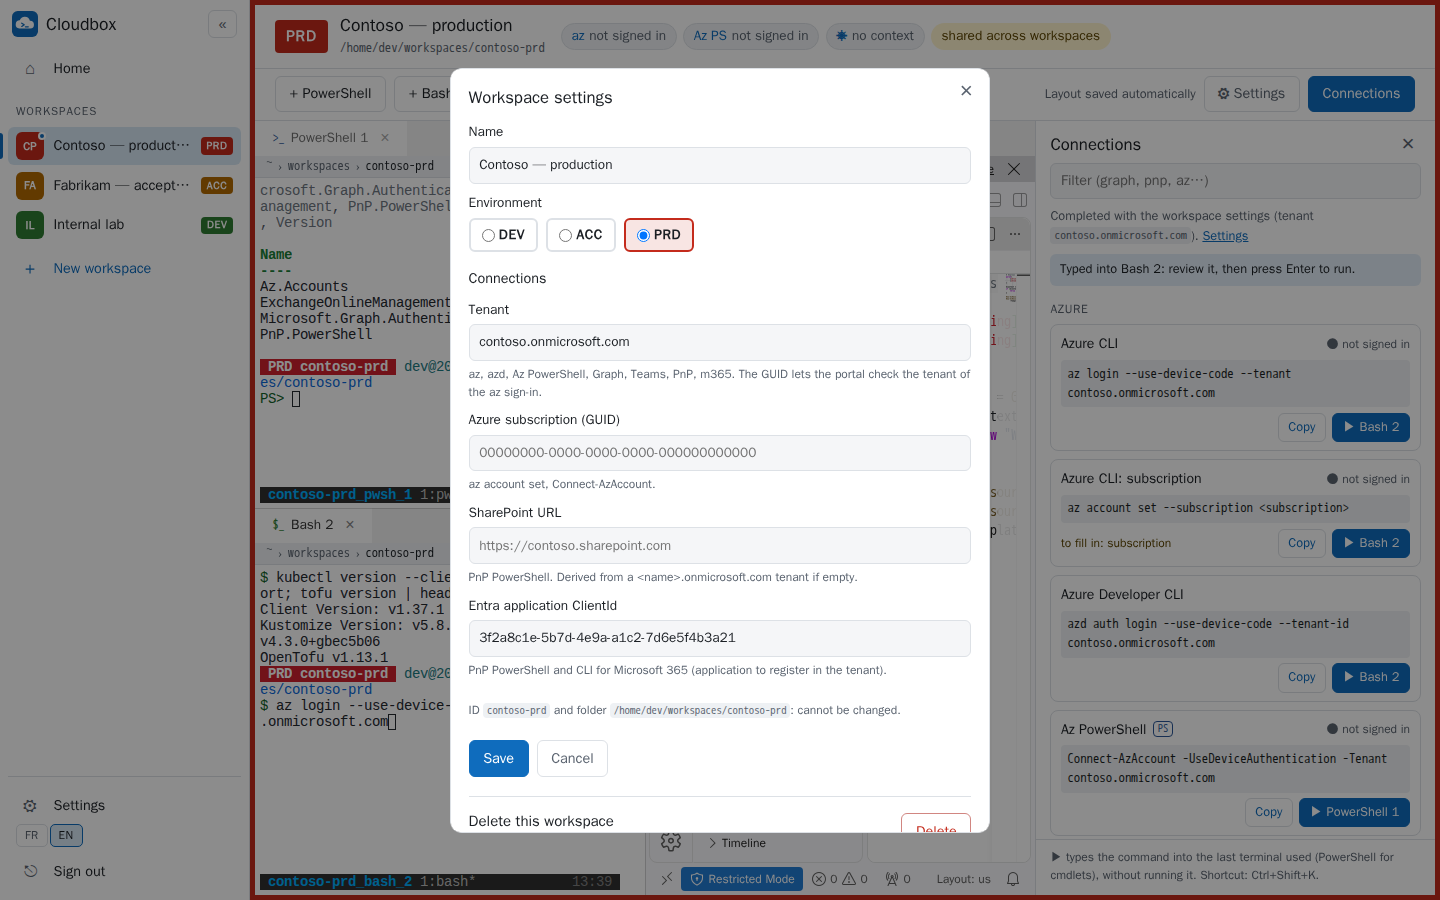
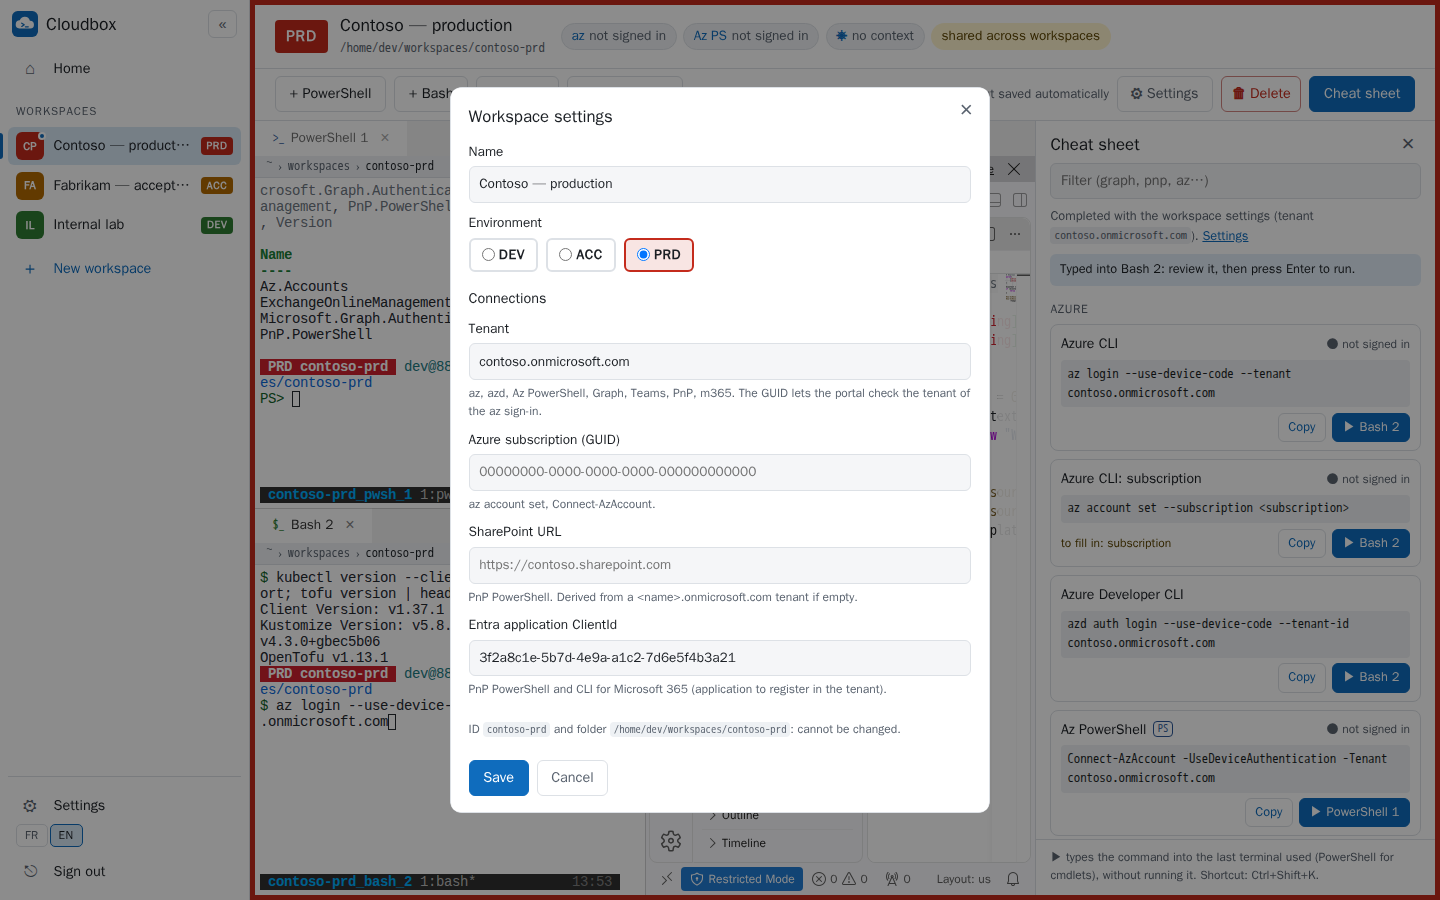
Workspace : bouton Supprimer dans la barre (confirmation), « Connexions » devient « Aide-mémoire »
- Suppression retirée des paramètres du workspace : bouton 🗑 à côté de ⚙ Paramètres, fenêtre de
  confirmation (sessions fermées, conversations de l'assistant supprimées, dossier conservé) ;
  en PRD, l'identifiant du workspace doit être retapé.
- Bouton et panneau « Connexions » renommés « Aide-mémoire » (« Cheat sheet » en anglais).
- Tests navigateur (annulation, suppression), captures et README.

Changed region(s): [[0.3125, 0.0622, 0.9688, 0.9333], [0.75, 0.1556, 0.7812, 0.1867]]

diff --git a/image/web/portal/src/workspace.tsx b/image/web/portal/src/workspace.tsx
@@ -1,5 +1,5 @@
 // Vue d'un workspace : barre (environnement, contexte réel, ajout de panneaux), disposition Dockview,
-// panneau Connexions à droite et fenêtre des paramètres.
+// aide-mémoire (commandes de connexion) à droite, fenêtre des paramètres et suppression confirmée.
 // Une vue reste montée quand on passe à un autre workspace (masquée, pas détruite) : terminaux et
 // VS Code ne se rechargent pas au retour.
 import { render } from 'preact';
@@ -13,6 +13,49 @@ import { EnvBadge, TopBar } from './home';
 import { t } from './i18n';
 import { WorkspaceSettingsForm } from './settings';
 import { workspaceStore } from './store';
+
+// Confirmation de la suppression : ce qui est fermé, supprimé et conservé ; en PRD, l'identifiant
+// du workspace doit être retapé
+function DeleteWorkspaceForm({ ws, onCancel, onDeleted }: { ws: Workspace; onCancel: () => void; onDeleted: () => void }) {
+  const m = t().settings;
+  const [typed, setTyped] = useState('');
+  const [busy, setBusy] = useState(false);
+  const [error, setError] = useState('');
+  const prd = ws.env === 'prd';
+  const remove = async (e: Event) => {
+    e.preventDefault();
+    setBusy(true);
+    setError('');
+    try {
+      await api.deleteWorkspace(ws.id);
+      onDeleted();
+    } catch (err) {
+      setError((err as Error).message);
+      setBusy(false);
+    }
+  };
+  return (
+    <form class="card delete-ws" onSubmit={remove}>
+      <h2>{m.confirmTitle(ws.name)}</h2>
+      <ul>
+        <li>{m.confirmSessions}</li>
+        <li>{m.confirmAssistant}</li>
+        <li>{m.confirmFolder(ws.folder)}</li>
+      </ul>
+      {prd && (
+        <label>
+          {m.confirmTypeId(ws.id)}
+          <input value={typed} autocomplete="off" spellcheck={false} onInput={(e) => setTyped(e.currentTarget.value)} />
+        </label>
+      )}
+      {error && <p class="error" role="alert">{error}</p>}
+      <div class="ws-actions">
+        <button type="submit" class="button danger-solid" disabled={busy || (prd && typed.trim() !== ws.id)}>{m.confirmDelete}</button>
+        <button type="button" class="button ghost" onClick={onCancel} autofocus>{t().common.cancel}</button>
+      </div>
+    </form>
+  );
+}
 
 // Panneau Connexions ouvert ou fermé : préférence commune à tous les workspaces
 const DRAWER_KEY = 'cloudbox.connections.open';
@@ -79,6 +122,8 @@ export function WorkspaceView({ id, active }: { id: string; active: boolean }) {
   const [drawer, setDrawer] = useState(readDrawer);
   const settingsDialog = useRef<HTMLDialogElement>(null);
   const [settingsKey, setSettingsKey] = useState(0);
+  const deleteDialog = useRef<HTMLDialogElement>(null);
+  const [deleteKey, setDeleteKey] = useState(0);
   const assistant = useAssistantConfig();
 
   const toggleDrawer = (open?: boolean) => {
@@ -114,6 +159,11 @@ export function WorkspaceView({ id, active }: { id: string; active: boolean }) {
   const openSettings = () => {
     setSettingsKey((k) => k + 1);
     settingsDialog.current?.showModal();
+  };
+
+  const openDelete = () => {
+    setDeleteKey((k) => k + 1);
+    deleteDialog.current?.showModal();
   };
 
   useEffect(() => {
@@ -175,6 +225,9 @@ export function WorkspaceView({ id, active }: { id: string; active: boolean }) {
         <button type="button" class="button ghost" onClick={openSettings} title={m.workspace.settingsTitle}>
           ⚙ {m.common.settings}
         </button>
+        <button type="button" class="button ghost danger ws-delete" onClick={openDelete} title={t().settings.deleteTitle}>
+          🗑 {t().settings.deleteButton}
+        </button>
         <button type="button" class={`button${drawer ? ' primary' : ''} conn-toggle`} onClick={() => toggleDrawer()}
           aria-expanded={drawer} title={m.workspace.connectionsTitle}>
           {m.common.connections}
@@ -195,8 +248,15 @@ export function WorkspaceView({ id, active }: { id: string; active: boolean }) {
               setWs(saved);
               workspaceStore.reload();
             }}
+          />
+        )}
+      </dialog>
+      <dialog class="create-dialog delete-dialog" ref={deleteDialog} aria-label={t().settings.deleteTitle}>
+        <button type="button" class="dialog-close" aria-label={m.common.close} onClick={() => deleteDialog.current?.close()}>×</button>
+        {deleteKey > 0 && (
+          <DeleteWorkspaceForm key={deleteKey} ws={ws} onCancel={() => deleteDialog.current?.close()}
             onDeleted={() => {
-              settingsDialog.current?.close();
+              deleteDialog.current?.close();
               window.location.hash = '#/';
               workspaceStore.reload();
             }} />

diff --git a/image/web/portal/src/i18n.ts b/image/web/portal/src/i18n.ts
@@ -60,7 +60,7 @@ const fr = {
     name: 'Nom',
     environment: 'Environnement',
     settings: 'Paramètres',
-    connections: 'Connexions',
+    connections: 'Aide-mémoire',
     sessionExpired: 'Session expirée',
     error: (status: number) => `Erreur ${status}`,
   },
@@ -137,7 +137,7 @@ const fr = {
     codeOpen: 'VS Code est déjà ouvert dans ce workspace',
     autosave: 'Disposition enregistrée automatiquement',
     settingsTitle: 'Nom, environnement, tenant, identifiants',
-    connectionsTitle: 'Commandes de connexion (Ctrl+Maj+K)',
+    connectionsTitle: 'Aide-mémoire : commandes de connexion (Ctrl+Maj+K)',
     settingsDialog: 'Paramètres du workspace',
     assistantOpen: "L'assistant est déjà ouvert dans ce workspace",
   },
@@ -187,7 +187,7 @@ const fr = {
     toComplete: 'à compléter :',
     insert: 'Insérer',
     insertLabel: (label: string) => `Insérer : ${label}`,
-    closePanel: 'Fermer le panneau Connexions',
+    closePanel: "Fermer l'aide-mémoire",
     closeEsc: 'Fermer (Échap)',
     filter: 'Filtrer (graph, pnp, az…)',
     filterLabel: 'Filtrer les commandes',
@@ -218,9 +218,13 @@ const fr = {
     ownModel: 'Modèle propre à ce workspace',
     ownModelHelp: (model: string) => `Sinon : modèle par défaut de l'assistant${model ? ` (${model})` : ''}.`,
     deleteTitle: 'Supprimer ce workspace',
-    deleteHelp: 'Ferme ses sessions de terminal ; le dossier de travail est conservé.',
-    confirmDelete: (name: string, folder: string) =>
-      `Supprimer le workspace « ${name} » ?\n\nSes sessions de terminal seront fermées.\nLe dossier ${folder} est conservé.`,
+    deleteButton: 'Supprimer',
+    confirmTitle: (name: string) => `Supprimer le workspace « ${name} » ?`,
+    confirmSessions: 'Ses sessions de terminal seront fermées (commandes en cours comprises).',
+    confirmAssistant: "Ses conversations et la mémoire de l'assistant seront supprimées.",
+    confirmFolder: (folder: string) => `Le dossier ${folder} est conservé, avec ses fichiers.`,
+    confirmTypeId: (id: string) => `Workspace de production : tapez « ${id} » pour confirmer.`,
+    confirmDelete: 'Supprimer définitivement',
   },
   assistant: {
     title: 'Assistant',
@@ -378,7 +382,7 @@ const en: Messages = {
     name: 'Name',
     environment: 'Environment',
     settings: 'Settings',
-    connections: 'Connections',
+    connections: 'Cheat sheet',
     sessionExpired: 'Session expired',
     error: (status) => `Error ${status}`,
   },
@@ -459,7 +463,7 @@ const en: Messages = {
     codeOpen: 'VS Code is already open in this workspace',
     autosave: 'Layout saved automatically',
     settingsTitle: 'Name, environment, tenant, IDs',
-    connectionsTitle: 'Sign-in commands (Ctrl+Shift+K)',
+    connectionsTitle: 'Cheat sheet: sign-in commands (Ctrl+Shift+K)',
     settingsDialog: 'Workspace settings',
     assistantOpen: 'The assistant is already open in this workspace',
   },
@@ -509,7 +513,7 @@ const en: Messages = {
     toComplete: 'to fill in:',
     insert: 'Insert',
     insertLabel: (label) => `Insert: ${label}`,
-    closePanel: 'Close the Connections panel',
+    closePanel: 'Close the cheat sheet',
     closeEsc: 'Close (Esc)',
     filter: 'Filter (graph, pnp, az…)',
     filterLabel: 'Filter commands',
@@ -540,9 +544,13 @@ const en: Messages = {
     ownModel: 'Model for this workspace',
     ownModelHelp: (model) => `Otherwise: the assistant's default model${model ? ` (${model})` : ''}.`,
     deleteTitle: 'Delete this workspace',
-    deleteHelp: 'Closes its terminal sessions; the working folder is kept.',
-    confirmDelete: (name, folder) =>
-      `Delete workspace “${name}”?\n\nIts terminal sessions will be closed.\nFolder ${folder} is kept.`,
+    deleteButton: 'Delete',
+    confirmTitle: (name) => `Delete workspace “${name}”?`,
+    confirmSessions: 'Its terminal sessions will be closed (running commands included).',
+    confirmAssistant: 'Its assistant conversations and memory will be deleted.',
+    confirmFolder: (folder) => `Folder ${folder} is kept, with its files.`,
+    confirmTypeId: (id) => `Production workspace: type “${id}” to confirm.`,
+    confirmDelete: 'Delete permanently',
   },
   assistant: {
     title: 'Assistant',

diff --git a/image/web/portal/src/settings.tsx b/image/web/portal/src/settings.tsx
@@ -20,10 +20,9 @@ function fields(): Field[] {
   ];
 }
 
-export function WorkspaceSettingsForm({ ws, onSaved, onDeleted, onCancel }: {
+export function WorkspaceSettingsForm({ ws, onSaved, onCancel }: {
   ws: Workspace;
   onSaved: (ws: Workspace) => void;
-  onDeleted: () => void;
   onCancel: () => void;
 }) {
   const [name, setName] = useState(ws.name);
@@ -50,19 +49,6 @@ export function WorkspaceSettingsForm({ ws, onSaved, onDeleted, onCancel }: {
     try {
       const saved = await api.updateWorkspace(ws.id, { name: name.trim(), env, settings, assistant: model });
       onSaved({ ...ws, name: saved.name, env: saved.env, settings, assistant: model ?? undefined });
-    } catch (err) {
-      setError((err as Error).message);
-      setBusy(false);
-    }
-  };
-
-  const remove = async () => {
-    const ok = window.confirm(m.settings.confirmDelete(ws.name, ws.folder));
-    if (!ok) return;
-    setBusy(true);
-    try {
-      await api.deleteWorkspace(ws.id);
-      onDeleted();
     } catch (err) {
       setError((err as Error).message);
       setBusy(false);
@@ -109,13 +95,6 @@ export function WorkspaceSettingsForm({ ws, onSaved, onDeleted, onCancel }: {
       <div class="ws-actions">
         <button type="submit" class="button primary" disabled={busy}>{m.common.save}</button>
         <button type="button" class="button ghost" onClick={onCancel}>{m.common.cancel}</button>
-      </div>
-      <div class="danger-zone">
-        <div>
-          <strong>{m.settings.deleteTitle}</strong>
-          <p class="field-help">{m.settings.deleteHelp}</p>
-        </div>
-        <button type="button" class="button danger" onClick={remove} disabled={busy}>{m.common.delete}</button>
       </div>
     </form>
   );

diff --git a/image/web/portal/src/styles.css b/image/web/portal/src/styles.css
@@ -308,6 +308,15 @@ kbd {
 }
 .danger-zone p { margin: 0.2rem 0 0; }
 .button.danger { color: var(--error); border-color: color-mix(in srgb, var(--error) 50%, var(--border)); background: transparent; }
+.button.danger-solid { color: #fff; background: var(--error); border-color: var(--error); }
+.button.danger-solid:disabled { opacity: 0.5; cursor: default; }
+.ws-toolbar .ws-delete { padding-inline: 0.6rem; }
+.delete-dialog { width: min(92vw, 480px); }
+.delete-ws { display: grid; gap: 0.6rem; box-shadow: 0 12px 40px rgb(0 0 0 / 0.3); }
+.delete-ws h2 { margin: 0; font-size: 1.1rem; padding-right: 1.5rem; }
+.delete-ws ul { margin: 0; padding-left: 1.2rem; display: grid; gap: 0.25rem; font-size: 0.9rem; }
+.delete-ws label { display: grid; gap: 0.3rem; font-size: 0.85rem; font-weight: 600; }
+.delete-ws input { font: inherit; padding: 0.4rem 0.55rem; border: 1px solid var(--border); border-radius: 6px; background: var(--bg); color: var(--text); }
 .button.danger:hover { background: color-mix(in srgb, var(--error) 10%, transparent); border-color: var(--error); }
 
 .tiles { display: grid; grid-template-columns: repeat(auto-fit, minmax(min(100%, 240px), 1fr)); gap: 1rem; }

diff --git a/tests/browser_check.py b/tests/browser_check.py
@@ -398,12 +398,19 @@ with sync_playwright() as p:
     page.screenshot(path=f"{OUT}/6-barre-repliee.png")
     page.click(".sidebar-toggle")
 
-    # --- Suppression d'un workspace depuis ses paramètres ---
+    # --- Suppression d'un workspace : bouton de la barre, confirmation ---
+    check("plus de suppression dans les paramètres du workspace", page.locator(".settings-dialog .danger-zone").count() == 0)
     page.click(".sidebar a.nav-item[href='#/w/projet-b']")
     page.wait_for_selector(f"{A}.env-frame-dev .dv-tab", timeout=20000)
-    page.click(f"{A} .ws-toolbar button:has-text('Paramètres')")
-    page.wait_for_selector("dialog[open] .ws-settings")
-    page.click("dialog[open] .danger-zone button")
+    page.click(f"{A} .ws-toolbar .ws-delete")
+    page.wait_for_selector("dialog[open] .delete-ws")
+    check("confirmation : dossier conservé", "/home/dev/workspaces/projet-b" in page.locator("dialog[open] .delete-ws").inner_text())
+    page.click("dialog[open] .delete-ws .button.ghost")  # Annuler
+    page.wait_for_timeout(500)
+    check("annulation : workspace conservé", page.locator(".sidebar a.nav-item[href='#/w/projet-b']").count() == 1)
+    page.click(f"{A} .ws-toolbar .ws-delete")
+    page.wait_for_selector("dialog[open] .delete-ws")
+    page.click("dialog[open] .delete-ws button[type=submit]")
     page.wait_for_timeout(1500)
     check("workspace supprimé : retour à l'accueil", page.url.endswith("#/") and page.locator(".home .tool-tiles").count() == 1, page.url)
     check("workspace retiré de la barre", page.locator(".sidebar a.nav-item[href='#/w/projet-b']").count() == 0)
@@ -424,7 +431,7 @@ with sync_playwright() as p:
     check("API en anglais", err.get("error", "").startswith("Workspace not found"), err)
     page.click(f".sidebar a.nav-item[href='#/w/{WS_ID}']")
     page.wait_for_selector(f"{A} .dv-tab", timeout=20000)
-    check("workspace en anglais", page.locator(f"{A} .conn-toggle").inner_text().strip() == "Connections")
+    check("workspace en anglais", page.locator(f"{A} .conn-toggle").inner_text().strip() == "Cheat sheet")
     page.screenshot(path=f"{OUT}/8-english.png")
     anon = browser.new_context(locale="fr-FR")
     login = anon.new_page()
@@ -434,7 +441,7 @@ with sync_playwright() as p:
     anon.close()
     page.click(".sidebar .lang-switch button[lang=fr]")
     page.wait_for_timeout(300)
-    check("retour au français", page.locator(f"{A} .conn-toggle").inner_text().strip() == "Connexions")
+    check("retour au français", page.locator(f"{A} .conn-toggle").inner_text().strip() == "Aide-mémoire")
 
     # --- Console : aucune violation de CSP ni erreur JavaScript du portail ---
     # vsda.js : module propriétaire de VS Code absent de code-server (404 en text/plain, bloqué par

diff --git a/README.md b/README.md
@@ -21,8 +21,8 @@ docker logs cloudbox   # access token, then open http://localhost:8080
 
 | | |
 |---|---|
-| ![Home page: tools and versions of the image](docs/screenshots/home.png) | ![Connections panel: sign-in commands completed with the workspace tenant](docs/screenshots/connections.png) |
-| **Home**: the three tools of every workspace, terminal tips and the version of each tool in the image. | **Connections**: device-code sign-in commands completed with the workspace settings, typed into a terminal without being run. |
+| ![Home page: tools and versions of the image](docs/screenshots/home.png) | ![Cheat sheet: sign-in commands completed with the workspace tenant](docs/screenshots/connections.png) |
+| **Home**: the three tools of every workspace, terminal tips and the version of each tool in the image. | **Cheat sheet**: device-code sign-in commands completed with the workspace settings, typed into a terminal without being run. |
 | ![Workspace settings](docs/screenshots/settings.png) | ![Settings window, AI assistant tab](docs/screenshots/preferences.png) |
 | **Workspace settings**: name, environment (DEV / ACC / PRD), tenant, subscription, SharePoint URL, ClientId. | **Settings**: language, theme, panels of new workspaces, and the AI assistant (API keys, default model). |
 | ![Home page, dark theme](docs/screenshots/home-dark.png) | ![Settings window, Terminal tab](docs/screenshots/terminal-settings.png) |
@@ -267,12 +267,13 @@ and VS Code in a panel layout (resizable, rearranged by drag and drop).
   restored at the next visit.
 - Each terminal panel has its own tmux session, `<id>_<shell>_<n>`: reloading the page, closing
   the browser tab or moving a panel does not stop it. Only the cross on a tab (with confirmation)
-  closes the session. Deleting a workspace (⚙ Settings) closes its sessions but **keeps its
-  folder**.
+  closes the session.
+- **🗑 Delete** (workspace toolbar, next to ⚙ Settings) asks for a confirmation, and in PRD for the
+  workspace ID to be typed. It closes the workspace sessions but **keeps its folder**.
 - **Workspace settings** (⚙ button of the workspace): name, environment, the workspace sign-in
   values (tenant, subscription, SharePoint URL, ClientId of the Entra application used by PnP and
   CLI for Microsoft 365) and, if the assistant is enabled, a model for this workspace.
-- **Connections** (button on the right of the toolbar, or Ctrl+Shift+K, including from a
+- **Cheat sheet** (button on the right of the toolbar, or Ctrl+Shift+K, including from a
   terminal): panel of sign-in commands, completed with the workspace settings. Each command can
   be copied, or typed with one click into the last terminal used (a PowerShell terminal for
   cmdlets), **without being run**: review it, then press Enter. The actual state is shown when
@@ -325,7 +326,7 @@ context, the workspace terminals and files, and proposes commands that you appro
 
 ## Signing in to the services (device code)
 
-In a workspace, the **Connections** panel provides these commands already completed (tenant,
+In a workspace, the **Cheat sheet** panel provides these commands already completed (tenant,
 subscription, SharePoint URL, ClientId).
 
 | Service | Command |

diff --git a/CLAUDE.md b/CLAUDE.md
@@ -169,7 +169,7 @@ par la page ttyd (`image/web/build/ttyd-index-addon.html`) à `window.term`, dep
 `localStorage` `cloudbox.terminal` puis `/api/preferences`, et suivie à chaud (événement `storage`).
 La barre de chemin (`portal/src/pathbar.ts`) lit `GET /api/workspaces/:id/terminals`
 (`#{pane_current_path}` de tmux ; le prompt PowerShell aligne le dossier du processus sur
-`Set-Location`). Un clic sur un segment saisit `cd '…'` sans Entrée, comme le panneau Connexions. Les panneaux choisis à la création
+`Set-Location`). Un clic sur un segment saisit `cd '…'` sans Entrée, comme l'aide-mémoire (panneau des commandes de connexion). Les panneaux choisis à la création
 (`initialPanels`) donnent la disposition de la première ouverture.
 L'environnement déclaré (DEV / ACC / PRD) est très visible, mais **le contexte affiché
 (abonnement Azure, cluster Kubernetes) est toujours lu depuis l'état réel**, jamais déclaré,
